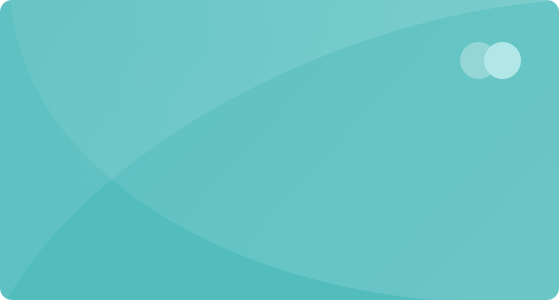
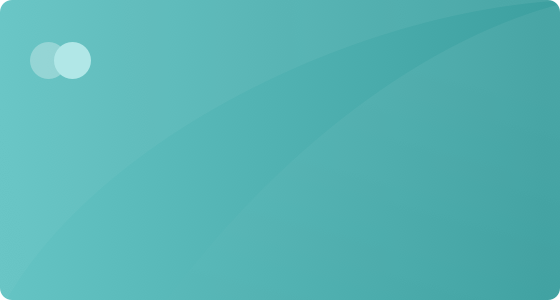
银行卡更换功能修改

diff --git a/src/assets/scss/_user.scss b/src/assets/scss/_user.scss
@@ -269,11 +269,36 @@
     background-size: 100% 100%;
     color: white;
     padding-top: px2rem(40px);
-    margin-bottom: px2rem(30px);
+    margin: 0 auto px2rem(30px);
+    &.todo{
+      background: url('../img/user/bankcard-bg-todo.png') no-repeat;
+      background-size: 100% 100%;
+    }
     .bank-name {
-      padding: 0 px2rem(30px);
+      padding: 0 px2rem(30px) 0 px2rem(105px);
       margin-bottom: px2rem(40px);
       @include font-dpr(28px);
+      display: flex;
+      align-items: center;
+      justify-content: space-between;
+      .list-btn {
+        position: relative;
+        display: flex;
+        align-items: center;
+        color: white;
+        @include font-dpr(24px);
+        .icon {
+          width: px2rem(22px);
+          margin-right: px2rem(12px);
+        }
+        .dot{
+          position: absolute;
+          left: 100%;
+          top: 0;
+          @include circle(10px);
+          background: #FB3636;
+        }
+      }
     }
     .bank-no {
       display: flex;
@@ -287,53 +312,96 @@
         background: #85d0d1;
       }
       .input {
-        width: px2rem(360px);
+        width: px2rem(450px);
         padding: 0;
         background: transparent;
         border: none;
         color: white;
         @include font-dpr(32px);
       }
+      .icon{
+        opacity: 0.8;
+      }
+    }
+    .action-wrap{
+      display: flex;
+      padding: 0 px2rem(60px);
+      justify-content: space-around;
     }
     .modify-btn {
       padding-left: px2rem(20px);
       @include font-dpr(24px);
       text-decoration: underline;
       font-weight: normal;
+      &.disabled{
+        opacity: 0.5;
+      }
     }
     .group {
-      display: flex;
-      justify-content: space-between;
-      align-items: center;
       padding: 0 px2rem(30px);
+      @extend %text-overflow;
       color: #cff1f1;
-      .group-name {
-        flex: 1;
-        @extend %text-overflow;
-      }
-      .list-btn {
-        display: flex;
-        align-items: center;
-        color: white;
-      }
-      .icon {
-        width: px2rem(22px);
-        margin-right: px2rem(12px);
-      }
     }
   }
 }
 .bankcard-history-page {
   .history-item {
-    padding: px2rem(30px) px2rem(30px) px2rem(40px);
+    padding-bottom:px2rem(30px);
     background: white;
     margin-bottom: px2rem(20px);
+    &.todo{
+      .time{
+        background: #FFF9F2;
+      }
+      .tag{
+        background: #FFA645;
+      }
+    }
+    &.success{
+      .time{
+        background: #E8F6F6;
+      }
+      .tag{
+        background: #53BDBD;
+      }
+    }
+    &.reject{
+      .time{
+        background: #FFF6F3;
+      }
+      .tag{
+        background: #F34B21;
+      }
+    }
+    .tag{
+      position: relative;
+      left: px2rem(20px);
+      display: inline-flex;
+      width: px2rem(178px);
+      height: 100%;
+      align-items: center;
+      justify-content: center;
+      padding-right: px2rem(20px);
+      @include font-dpr(26px);
+      color: white;
+      transform: skew(30deg);
+      .text{
+        transform: skew(-30deg);
+      }
+    }
     .time {
+      position: relative;
+      height: px2rem(52px);
+      display: flex;
+      align-items: center;
+      justify-content: space-between;
+      padding-left: px2rem(30px);
       color: #666;
-      margin-bottom: px2rem(40px);
+      margin-bottom: px2rem(30px);
     }
     .row-list {
       position: relative;
+      margin: 0 px2rem(30px);
       &:after {
         content: '';
         position: absolute;
@@ -371,6 +439,13 @@
         transform: translate(-50%, -50%);
         background: $fx-main-color;
       }
+    }
+    .reject-reason{
+      padding: px2rem(4px) px2rem(16px);
+      margin: px2rem(30px) px2rem(30px) 0;
+      @include font-dpr(22px);
+      background: #FFF6F3;
+      color: #F34B21;
     }
   }
   .no-data{

diff --git a/src/views/user/bankItem.vue b/src/views/user/bankItem.vue
@@ -1,12 +1,19 @@
 <template>
-  <div class="bank-item">
-    <div class="bank-name">{{currentBank.issuerName}}</div>
-    <div class="bank-no" v-show="!editing">{{currentBank.cardNo | bankSpace}}<span class="modify-btn" @click="startEdit(currentBank.cardNo)">修改</span></div>
-    <div class="bank-no editing" v-show="editing"><input class="input" type="tel" v-model.trim="currentBank.cardNo"><span
-        class="modify-btn" @click="cancelEditing">取消</span><span class="modify-btn" @click="modifySave">保存</span></div>
-    <div class="group">
+  <div class="bank-item" :class="{'todo' :currentBank.cardUpdStatus === 0}">
+    <div class="bank-name">{{currentBank.issuerName}}<span class="list-btn" @click="toHistory"><img src="../../assets/img/user/icon-bankcard-list.png" class="icon">更换记录<span class="dot" v-if="currentBank.isNew"></span></span></div>
+    <div class="bank-no" v-show="!editing">{{currentBank.cardNo | bankSpace}}
+      <span class="modify-btn disabled" v-if="currentBank.cardUpdStatus === 0">申请更换</span>
+      <span class="modify-btn" @click="startEdit(currentBank.cardNo)" v-else>申请更换</span>
+    </div>
+    <div class="bank-no editing" v-show="editing">
+      <input class="input" type="tel" v-model.trim="currentBank.cardNo">
+      <i class="icon iconfont icon-Close" @click="currentBank.cardNo = ''" v-if="currentBank.cardNo"></i>
+    </div>
+    <div class="action-wrap" v-show="editing">
+      <span class="modify-btn" @click="cancelEditing">取消</span><span class="modify-btn" @click="modifySave">保存</span>
+    </div>
+    <div class="group" v-show="!editing">
       <span class="group-name">所属机构：{{collect.getValueList(currentBank.bankCardGroups, 'shortGroupName').join('/')}}</span>
-      <span class="list-btn" @click="toHistory"><img src="../../assets/img/user/icon-bankcard-list.png" class="icon">修改记录</span>
     </div>
   </div>
 </template>

diff --git a/src/views/user/bankcardHistory.vue b/src/views/user/bankcardHistory.vue
@@ -1,23 +1,7 @@
 <template>
   <div class="bankcard-history-page">
     <template v-if="list.length">
-      <div class="history-item" v-for="(item, index) in list" :key="index">
-        <div class="time">{{item.crtDateTime | date}}</div>
-        <div class="row-list">
-          <div class="row">
-            <div class="label">原银行卡</div>
-            <div class="value">{{item.issuerNameOld}}&nbsp;&nbsp;{{item.cardNoOld | bankSpace}}</div>
-          </div>
-          <div class="row">
-            <div class="label">修改为</div>
-            <div class="value">{{item.issuerName}}&nbsp;&nbsp;{{item.cardNo | bankSpace}}</div>
-          </div>
-          <div class="row">
-            <div class="label">所属机构</div>
-            <div class="value">{{item.shortGroupName}}</div>
-          </div>
-        </div>
-      </div>
+      <bank-history-item v-for="(item, index) in list" :key="index" :item="item"></bank-history-item>
     </template>
     <template v-else>
       <div class="no-data">暂无历史记录</div>
@@ -27,6 +11,7 @@
 
 <script>
 import storage from 'utils/storage'
+import bankHistoryItem from './bankcardHistoryItem'
 export default {
   data () {
     return {
@@ -42,6 +27,9 @@ export default {
       let res = await this.$Roll.empCardLog(this.ids)
       this.list = res.data
     }
+  },
+  components: {
+    bankHistoryItem
   }
 }
 </script>

diff --git a/src/views/user/bankcardHistoryItem.vue b/src/views/user/bankcardHistoryItem.vue
@@ -1,0 +1,42 @@
+<template>
+  <div class="history-item" :class="itemClass">
+    <div class="time">{{item.crtDateTime | date}}
+      <span class="tag"><span class="text">{{item.updStatusVal}}</span></span>
+    </div>
+    <div class="row-list">
+      <div class="row">
+        <div class="label">原银行卡</div>
+        <div class="value">{{item.issuerNameOld}}&nbsp;&nbsp;{{item.cardNoOld | bankSpace}}</div>
+      </div>
+      <div class="row">
+        <div class="label">修改为</div>
+        <div class="value">{{item.issuerName}}&nbsp;&nbsp;{{item.cardNo | bankSpace}}</div>
+      </div>
+      <div class="row">
+        <div class="label">所属机构</div>
+        <div class="value">{{item.shortGroupName}}</div>
+      </div>
+    </div>
+    <div class="reject-reason" v-if="item.updStatus === 2">{{item.updDesc}}</div>
+  </div>
+</template>
+
+<script>
+export default {
+  props: {
+    item: Object
+  },
+  data () {
+    return {
+      statusClass: ['todo', 'success', 'reject']
+    }
+  },
+  computed: {
+    itemClass () {
+      return this.statusClass[this.item.updStatus]
+    }
+  },
+  created () { },
+  methods: {}
+}
+</script>

diff --git a/src/http/base.js b/src/http/base.js
@@ -27,6 +27,12 @@ export default class HttpForApplication extends HttpEngine {
   beforeErrorResponseHandler (error) {
     error.config.loading && Indicator.close()
     let errorMsg = error.message
+    if (errorMsg === 'Network Error') { 
+      errorMsg = '网络异常'
+    }
+    if (errorMsg.indexOf('timeout') >= 0) {
+      errorMsg = '请求超时'
+    }
     if (typeOf(error.response) === 'object') {
       if (typeOf(error.response.data) === 'object') {
         errorMsg = error.response.data['errorMsg']

diff --git a/core/plugins/http/HttpEngine.js b/core/plugins/http/HttpEngine.js
@@ -9,7 +9,7 @@ import DebugFail from "./DebugFail";
 import sysConfig from 'utils/constant'
 let MockerEngine;
 if (Utils.isDevelopmentEnv() && !sysConfig.requested_sever) {
-  // MockerEngine = require("../../mock/MockerEngine").default;
+  MockerEngine = require("../../mock/MockerEngine").default;
 }
 
 const $baseURL = Symbol("$baseURL");
